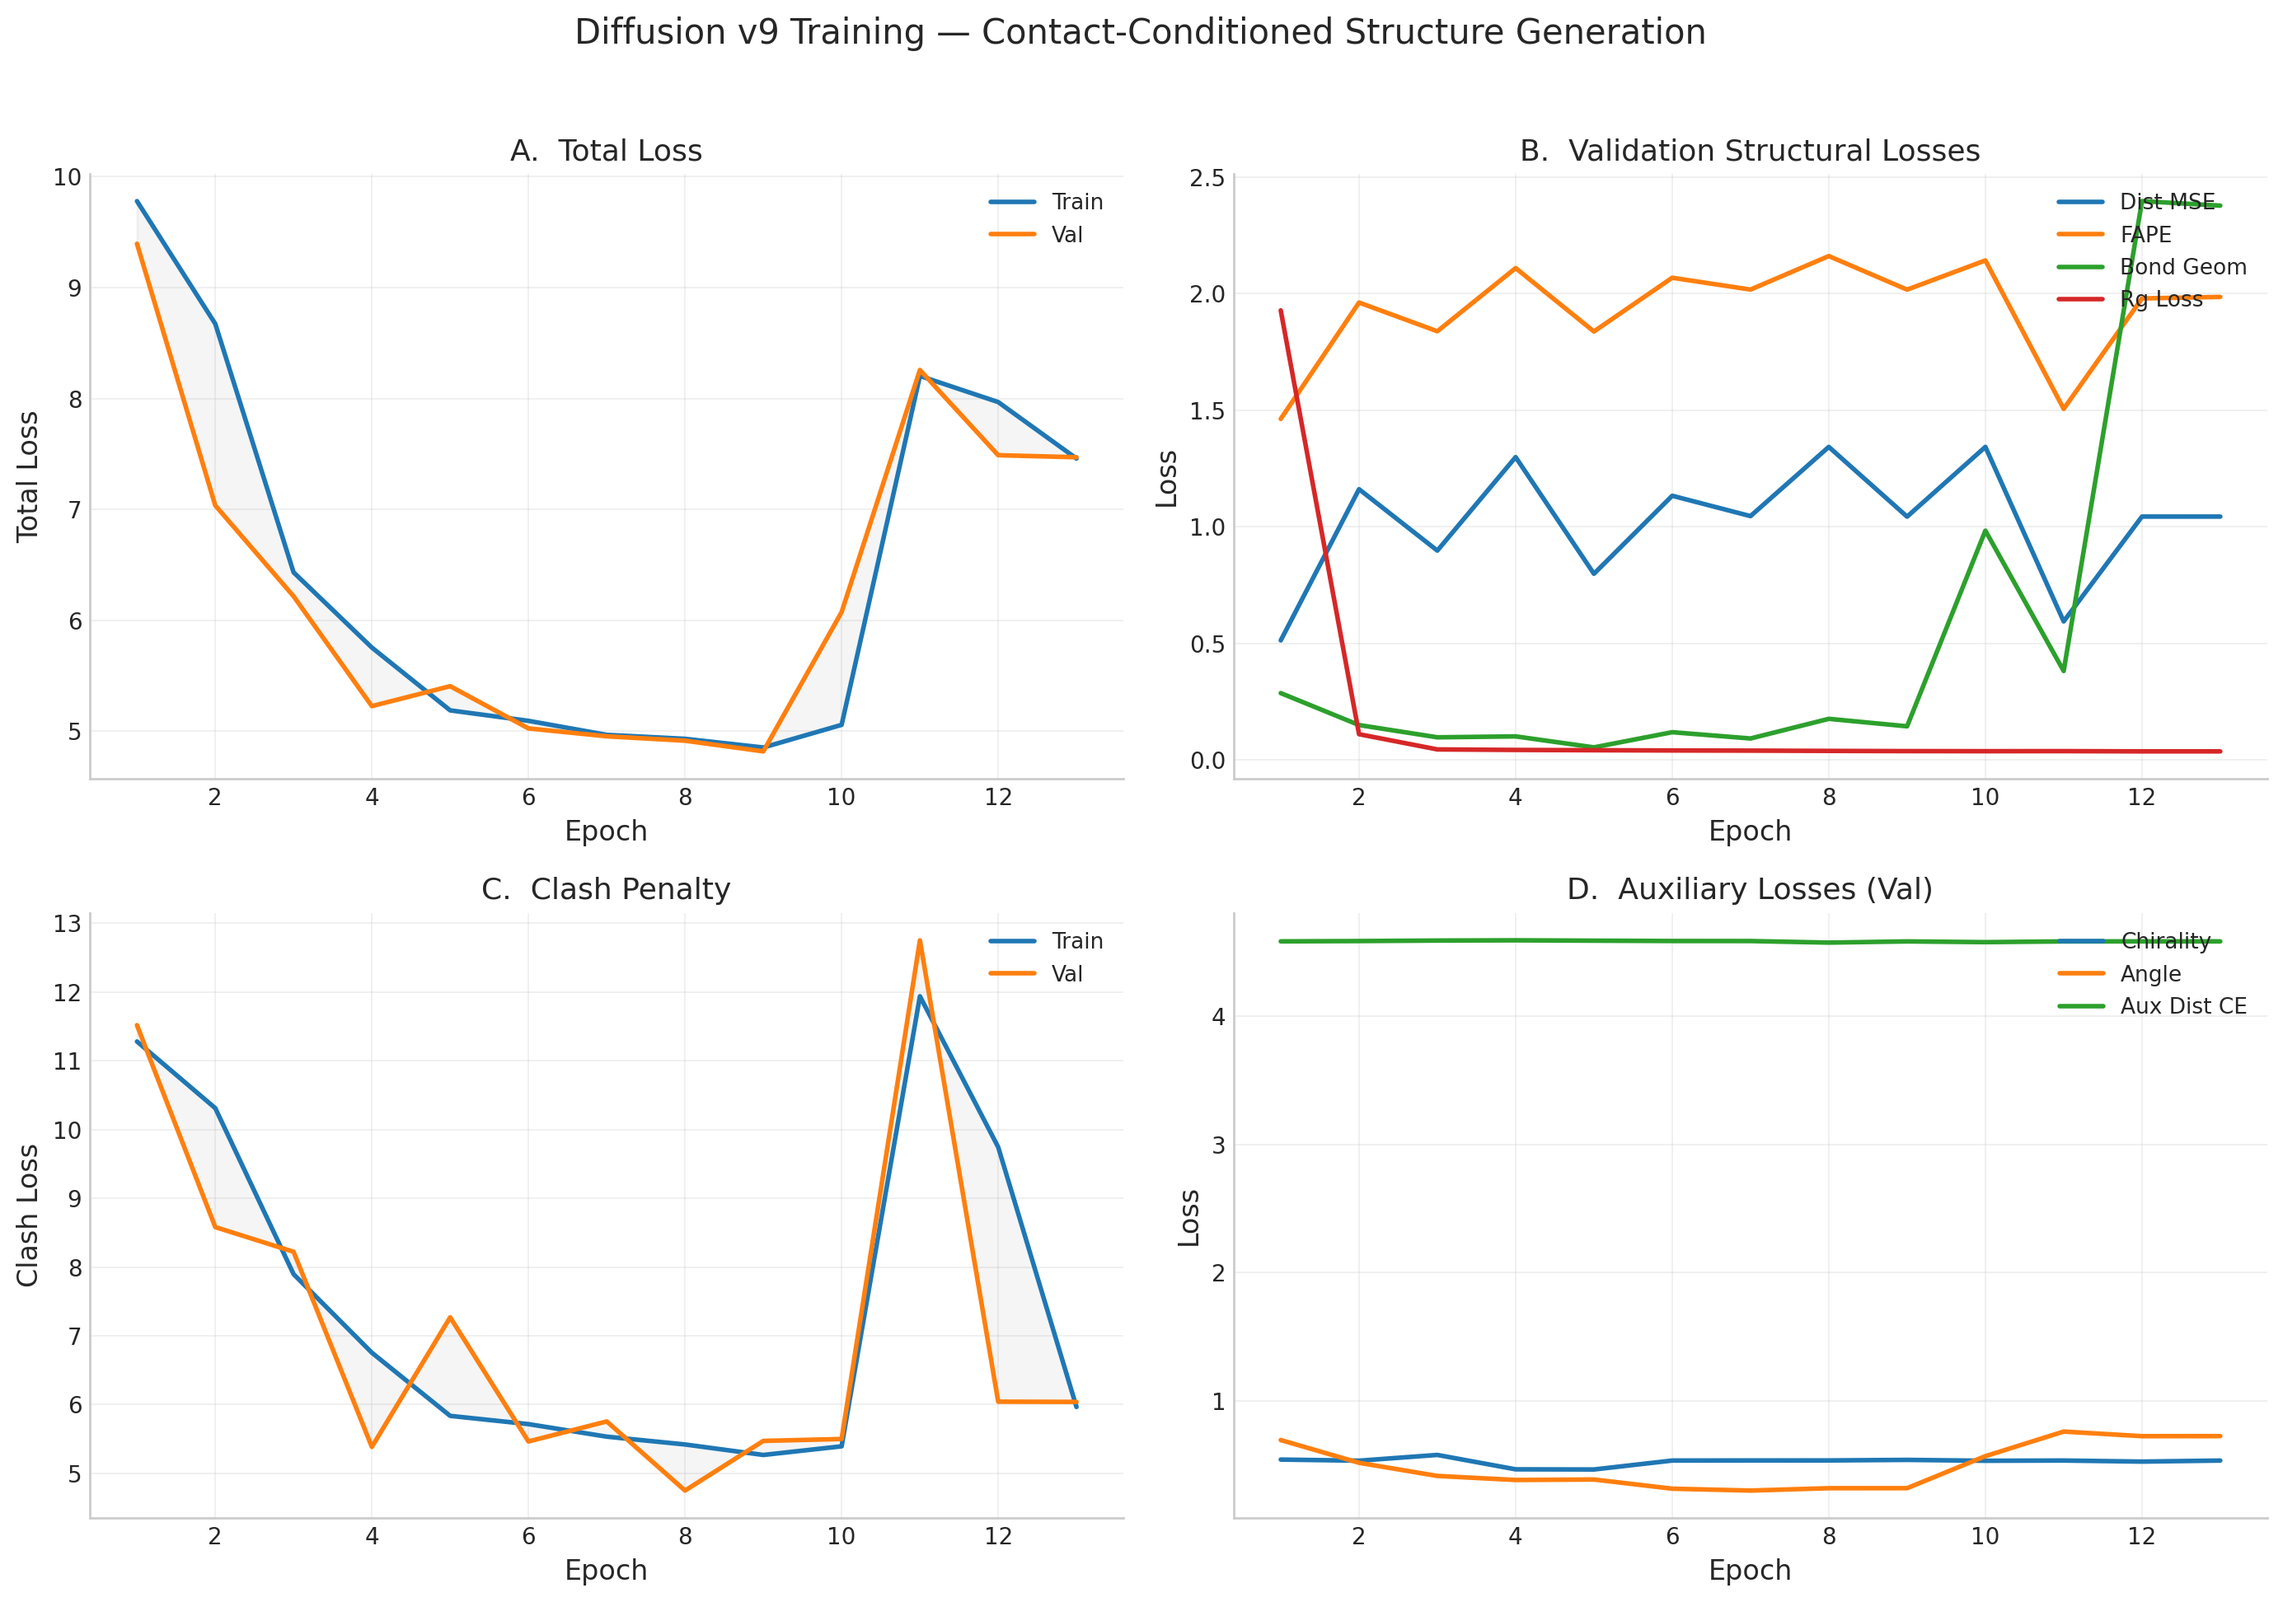
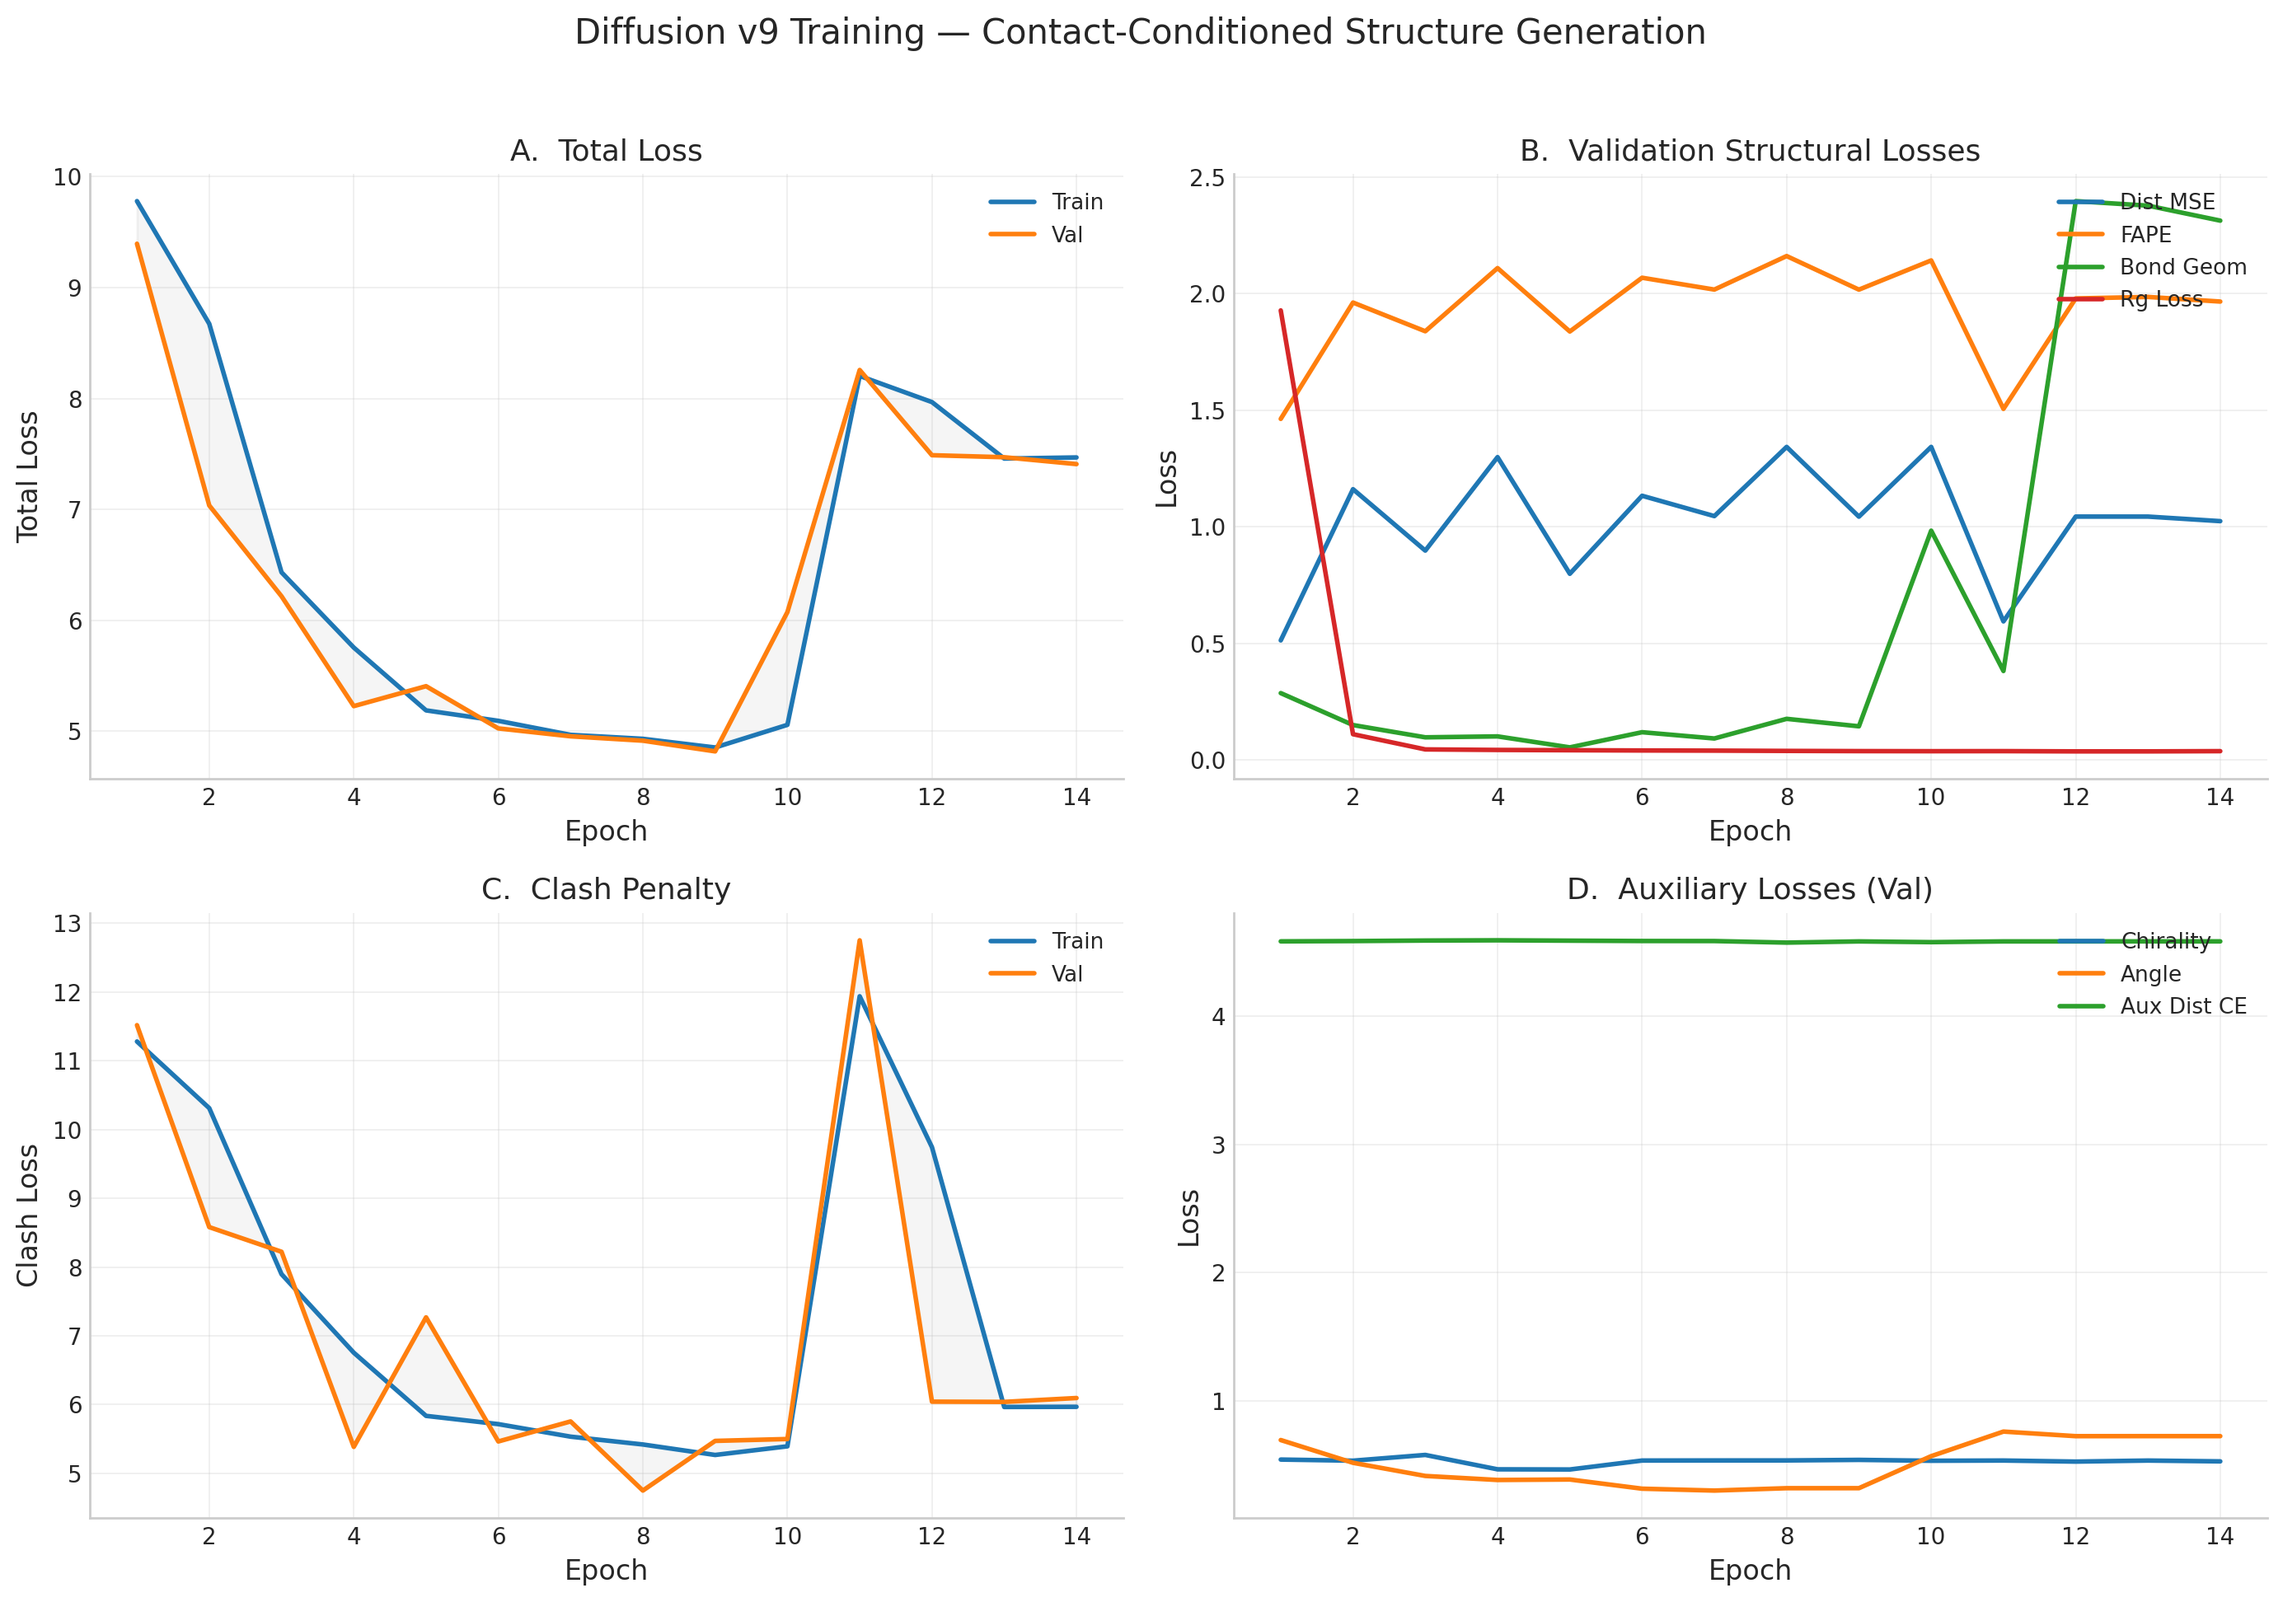
Update v9 training: E14 (pat 5/15, slow recovery from instability)

diff --git a/index.html b/index.html
@@ -1335,6 +1335,17 @@
                 <td>&mdash;</td>
                 <td><span class="tag tag-pat">pat 4</span></td>
               </tr>
+              <tr>
+                <td>14</td>
+                <td>7.409</td>
+                <td>1.024</td>
+                <td>1.966</td>
+                <td>0.038</td>
+                <td>2.313</td>
+                <td>&mdash;</td>
+                <td>&mdash;</td>
+                <td><span class="tag tag-pat">pat 5</span></td>
+              </tr>
             </tbody>
           </table>
         </div>
@@ -1345,12 +1356,12 @@
         </div>
 
         <div class="training-observations">
-          <h4>Training Progress (Epochs 1&ndash;13)</h4>
+          <h4>Training Progress (Epochs 1&ndash;14)</h4>
           <ul>
             <li>Best val total loss: 4.82 at epoch 9 (49% reduction from E1). Training hit an instability at E10&ndash;11, where bond geometry and clash penalties spiked before beginning recovery at E12&ndash;13.</li>
             <li>DDIM at E10: RMSD = 54.6&Aring;, TM = 0.010 &mdash; generated structures still unfolded. The denoiser has not yet learned to produce coherent backbones during reverse diffusion. This is expected given the instability; DDIM quality should improve as training stabilizes.</li>
             <li>Instability pattern: clash loss dropped to 5.3 (E10) then spiked to 12.8 (E11, worse than E1). Bond geometry jumped from 0.14 to 2.4. Meanwhile, dist_mse and FAPE temporarily improved (E11: dist=0.59, FAPE=1.51), suggesting the model briefly over-optimized local distance metrics at the cost of geometric validity.</li>
-            <li>Recovery in progress: E12&ndash;13 show clash returning toward 6.0. The cosine LR schedule is decaying (1.87e-4 &rarr; 1.12e-4), which should help stabilize. Patience 4/15 with 47 epochs remaining.</li>
+            <li>Recovery in progress: E12&ndash;14 show clash stabilized at ~6.0 and val loss slowly declining (8.26 &rarr; 7.49 &rarr; 7.47 &rarr; 7.41). Bond geom remains elevated (~2.3). The cosine LR schedule is decaying (1.87e-4 &rarr; 8.9e-5), which should help. Patience 5/15 with 46 epochs remaining.</li>
             <li>Rg remains solved throughout (&lt; 0.04). The frozen contact classifier encoder provides stable conditioning.</li>
             <li>Running on NVIDIA A40 (47.6 GB) on savio3 &mdash; ~15 min/epoch with auto-resume.</li>
           </ul>
